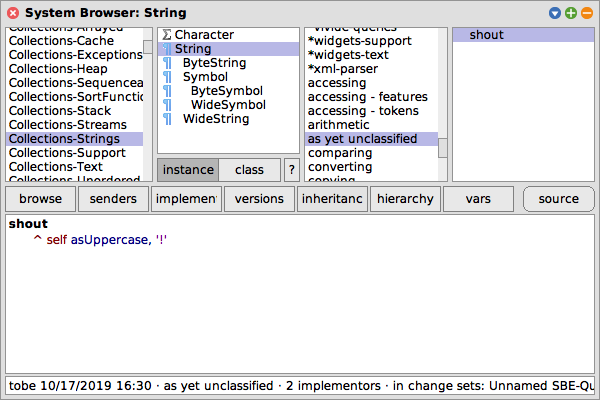
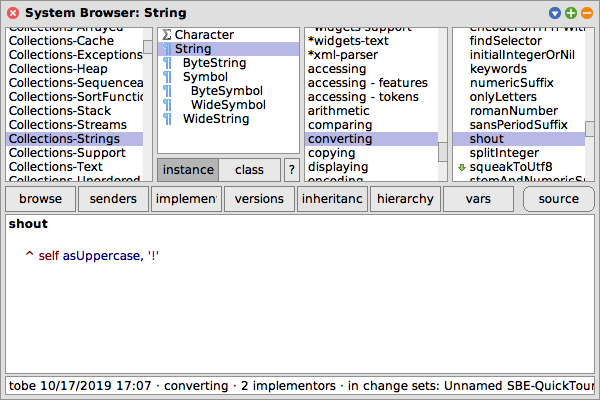
fix TimeClasses and String-Shout

diff --git a/QuickTour/QuickTour.tex b/QuickTour/QuickTour.tex
@@ -652,12 +652,12 @@ You will be presented with a list of classes whose names contain ``time'' (see \
 %%  
 %%  helper
 %%    runModal: [helper keyStroke: browser submorphs sixth key: $f modifiers: #(cmd)]
-%%    then: [helper dialogWindow position: 60 asPoint].
+%%    then: [
+%%      helper dialogWindow position: 60 asPoint.
+%%      helper type: 'time' into: (helper morphByExternalName: 'searchText' in: helper world).
+%%      helper closeBalloons.
+%%    ].
 %%  
-%%  "This should type 'time' into the dialog window's search panel: (but currently doesn't)
-%%  helper dialogWindow messageMorph contents: 'time'."
-%%  
-%%  helper closeBalloons.
 %%]}
 
 \begin{figure}[hbt]
@@ -886,10 +886,9 @@ Don't worry about this.
 }
 
 %%{SBESqueakPicture writeTo: './figures/String-Shout.png' frame: #morphs using: [:helper |
+%%  String compile: 'shout\\    ^ self asUppercase, ''!''' withCRs classified: 'converting'.
 %%  ToolSet browse: String selector: #shout
 %%]}
-
-
 \begin{figure}[hbt]
 \ifluluelse
 	{\centerline{\includegraphics[width=\textwidth]{String-Shout}}}
